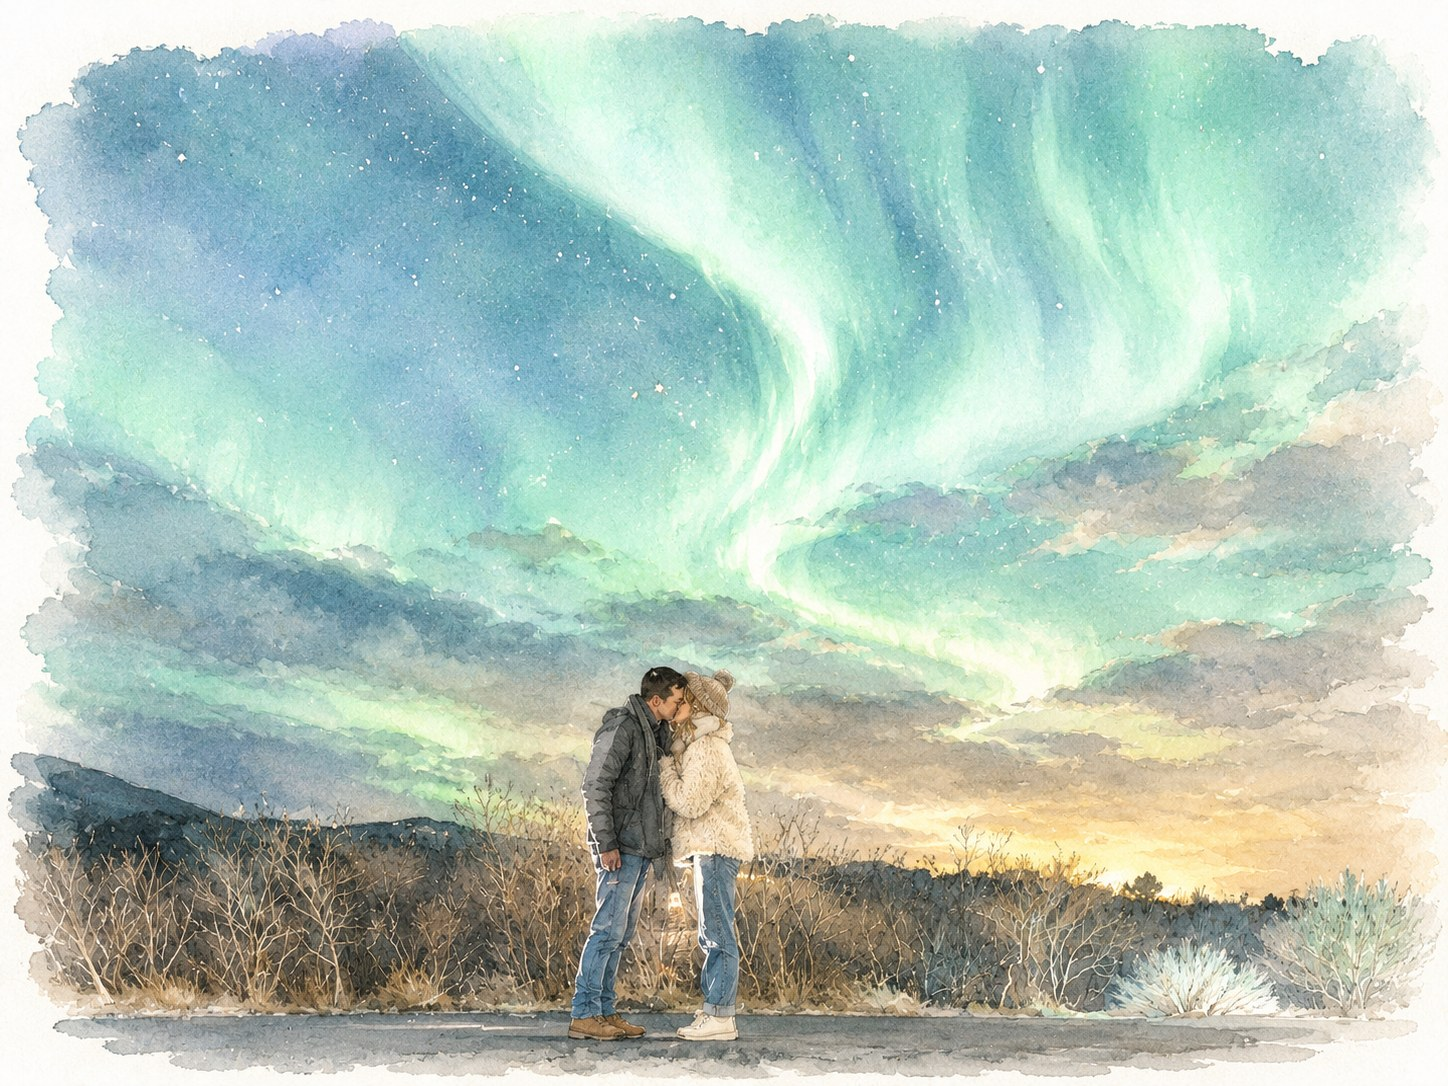
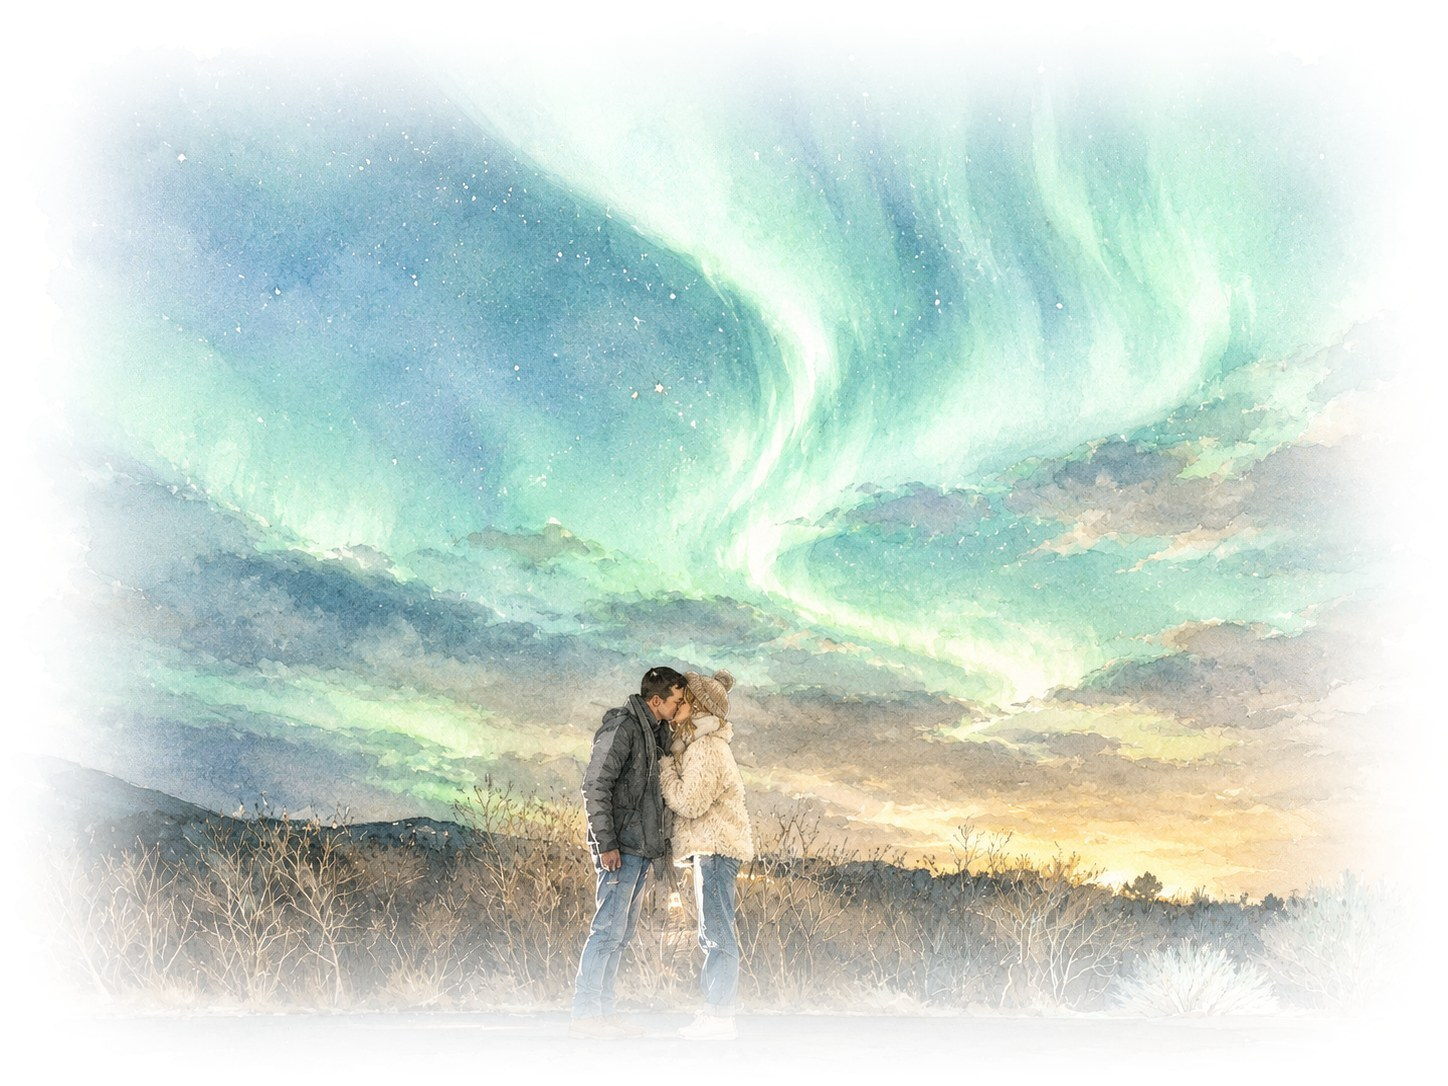
Jenna Sue display face + hero blend fix
- Jenna Sue (woff2) replaces Moelania for hero names, section titles,
  band title, countdown digits, footer names (full charset incl digits/&)
- Hero art: white feather baked into all four edges so the painting
  dissolves into the page with no visible boundary
- Hero parallax anchored to scroll top (data-plx-top): rests at 0 on
  load, recedes at 0.05 like the story painting, no detach jump

diff --git a/index.html b/index.html
@@ -9,19 +9,19 @@
   <meta property="og:description" content="Save the date. Promontory Point, Chicago. Find your invitation and RSVP." />
   <meta property="og:type" content="website" />
 
-  <link rel="icon" type="image/png" href="assets/favicon.png?v=40" />
+  <link rel="icon" type="image/png" href="assets/favicon.png?v=42" />
 
   <link rel="preconnect" href="https://fonts.googleapis.com" />
   <link rel="preconnect" href="https://fonts.gstatic.com" crossorigin />
   <link href="https://fonts.googleapis.com/css2?family=Cormorant+Garamond:ital,wght@0,300;0,400;0,500;0,600;1,300;1,400;1,500&family=Jost:wght@300;400;500&family=Tangerine:wght@400;700&display=swap" rel="stylesheet" />
 
-  <link rel="stylesheet" href="css/site.css?v=40" />
+  <link rel="stylesheet" href="css/site.css?v=42" />
 
   <script>function photoMissing(img){var b=img.closest('[data-photo]');if(b)b.classList.add('photo--missing');}</script>
-  <script defer src="js/config.js?v=40"></script>
+  <script defer src="js/config.js?v=42"></script>
   <script defer src="https://cdn.jsdelivr.net/npm/@supabase/supabase-js@2"></script>
-  <script defer src="js/site.js?v=40"></script>
-  <script defer src="js/rsvp.js?v=40"></script>
+  <script defer src="js/site.js?v=42"></script>
+  <script defer src="js/rsvp.js?v=42"></script>
 </head>
 <body>
 
@@ -59,7 +59,7 @@
         <span class="hero__amp">&amp;</span>
         <span class="hero__name">Ana</span>
       </h1>
-      <div class="hero__rule" data-enter><span class="ornament--set ornament--set-hero" aria-hidden="true"><i></i><img class="ornament__pug" src="assets/photos/pug-icon.png?v=40" alt="" /><i></i></span></div>
+      <div class="hero__rule" data-enter><span class="ornament--set ornament--set-hero" aria-hidden="true"><i></i><img class="ornament__pug" src="assets/photos/pug-icon.png?v=42" alt="" /><i></i></span></div>
       <p class="hero__date" data-enter>Friday, April 23, 2027</p>
       <p class="hero__place" data-enter>Promontory Point &#183; Chicago</p>
       <div class="countdown" id="countdown" data-enter aria-label="Countdown to the wedding">
@@ -75,7 +75,7 @@
     </div>
 
     <figure class="hero__art">
-      <img data-plx="0.07" src="assets/photos/hero-illustration.jpg?v=40" alt="Watercolor of Austin and Ana kissing beneath the northern lights" />
+      <img data-plx="0.05" data-plx-top src="assets/photos/hero-illustration.jpg?v=42" alt="Watercolor of Austin and Ana kissing beneath the northern lights" />
     </figure>
 
 
@@ -152,11 +152,11 @@
       <header class="section__head" data-reveal>
         <p class="section__label">The two of us</p>
         <h2 class="section__title">Our Story</h2>
-        <span class="ornament ornament--set" aria-hidden="true"><i></i><img class="ornament__pug" src="assets/photos/pug-icon.png?v=40" alt="" /><i></i></span>
+        <span class="ornament ornament--set" aria-hidden="true"><i></i><img class="ornament__pug" src="assets/photos/pug-icon.png?v=42" alt="" /><i></i></span>
       </header>
     </div>
     <figure class="story__art">
-      <img data-plx="0.07" src="assets/photos/story-illustration.jpg?v=40" alt="Watercolor illustration of Austin and Ana on the lakeshore" loading="lazy" />
+      <img data-plx="0.07" src="assets/photos/story-illustration.jpg?v=42" alt="Watercolor illustration of Austin and Ana on the lakeshore" loading="lazy" />
     </figure>
   </section>
 
@@ -166,7 +166,7 @@
       <header class="section__head" data-reveal>
         <p class="section__label">April 23, 2027</p>
         <h2 class="section__title">The Day</h2>
-        <span class="ornament ornament--set" aria-hidden="true"><i></i><img class="ornament__pug" src="assets/photos/pug-icon.png?v=40" alt="" /><i></i></span>
+        <span class="ornament ornament--set" aria-hidden="true"><i></i><img class="ornament__pug" src="assets/photos/pug-icon.png?v=42" alt="" /><i></i></span>
       </header>
       <div class="timeline" id="timeline">
         <div class="timeline__rail" aria-hidden="true"><span class="timeline__rail-fill" id="railFill"></span></div>
@@ -211,10 +211,10 @@
       <header class="section__head" data-reveal>
         <p class="section__label">Where</p>
         <h2 class="section__title">Promontory Point</h2>
-        <span class="ornament ornament--set" aria-hidden="true"><i></i><img class="ornament__pug" src="assets/photos/pug-icon.png?v=40" alt="" /><i></i></span>
+        <span class="ornament ornament--set" aria-hidden="true"><i></i><img class="ornament__pug" src="assets/photos/pug-icon.png?v=42" alt="" /><i></i></span>
       </header>
       <figure class="venue__art" data-reveal>
-        <img data-plx="0.05" src="assets/photos/venue-illustration.jpg?v=40" alt="Watercolor illustration of Promontory Point with the Chicago skyline behind it" loading="lazy" />
+        <img data-plx="0.05" src="assets/photos/venue-illustration.jpg?v=42" alt="Watercolor illustration of Promontory Point with the Chicago skyline behind it" loading="lazy" />
       </figure>
       <div class="venue__grid">
         <div class="venue__info" data-reveal>
@@ -244,7 +244,7 @@
       <header class="section__head" data-reveal>
         <p class="section__label">The palette</p>
         <h2 class="section__title">Colors of the Day</h2>
-        <span class="ornament ornament--set" aria-hidden="true"><i></i><img class="ornament__pug" src="assets/photos/pug-icon.png?v=40" alt="" /><i></i></span>
+        <span class="ornament ornament--set" aria-hidden="true"><i></i><img class="ornament__pug" src="assets/photos/pug-icon.png?v=42" alt="" /><i></i></span>
       </header>
       <div class="swatches" data-reveal>
         <div class="swatch"><i style="background:#4E5F82"></i><span>Slate</span></div>
@@ -262,7 +262,7 @@
       <header class="section__head" data-reveal>
         <p class="section__label">A few favorites</p>
         <h2 class="section__title">Gallery</h2>
-        <span class="ornament ornament--set" aria-hidden="true"><i></i><img class="ornament__pug" src="assets/photos/pug-icon.png?v=40" alt="" /><i></i></span>
+        <span class="ornament ornament--set" aria-hidden="true"><i></i><img class="ornament__pug" src="assets/photos/pug-icon.png?v=42" alt="" /><i></i></span>
       </header>
       <div class="gallery__grid">
         <figure class="photo" data-photo data-reveal><img src="assets/photos/gallery-1.jpg" alt="" onerror="photoMissing(this)"/><span class="photo__hint">gallery-1.jpg</span></figure>
@@ -283,7 +283,7 @@
       <header class="section__head" data-reveal>
         <p class="section__label">Good to know</p>
         <h2 class="section__title">Questions</h2>
-        <span class="ornament ornament--set" aria-hidden="true"><i></i><img class="ornament__pug" src="assets/photos/pug-icon.png?v=40" alt="" /><i></i></span>
+        <span class="ornament ornament--set" aria-hidden="true"><i></i><img class="ornament__pug" src="assets/photos/pug-icon.png?v=42" alt="" /><i></i></span>
       </header>
       <div class="faq__list" data-reveal>
         <details class="faq__item"><summary>When should I RSVP?</summary><p>As soon as you can - it truly helps us plan. Search your name below; your whole party appears together.</p></details>
@@ -302,7 +302,7 @@
       <header class="section__head" data-reveal>
         <p class="section__label">We hope you'll join us</p>
         <h2 class="section__title">RSVP</h2>
-        <span class="ornament ornament--set" aria-hidden="true"><i></i><img class="ornament__pug" src="assets/photos/pug-icon.png?v=40" alt="" /><i></i></span>
+        <span class="ornament ornament--set" aria-hidden="true"><i></i><img class="ornament__pug" src="assets/photos/pug-icon.png?v=42" alt="" /><i></i></span>
         <p class="rsvp__lead">Search your name - or your partner's - to find your invitation. Add your email and phone so reminders and updates reach you.</p>
       </header>
       <div class="rsvp__card" data-reveal>
@@ -322,7 +322,7 @@
 
   <!-- ============ FOOTER ============ -->
   <footer class="footer">
-    <span class="ornament ornament--set ornament--footer" aria-hidden="true"><i></i><img class="ornament__pug" src="assets/photos/pug-icon.png?v=40" alt="" /><i></i></span>
+    <span class="ornament ornament--set ornament--footer" aria-hidden="true"><i></i><img class="ornament__pug" src="assets/photos/pug-icon.png?v=42" alt="" /><i></i></span>
     <p class="footer__names">Austin <span>&amp;</span> Ana</p>
     <p class="footer__date">April 23, 2027 · Promontory Point, Chicago</p>
     <p class="footer__thanks">We can't wait to celebrate with you.</p>

diff --git a/css/site.css b/css/site.css
@@ -1106,3 +1106,39 @@ body.nav-open{overflow:hidden}
   height:auto;object-fit:unset;object-position:center;
   -webkit-mask-image:none;mask-image:none;
 }
+
+/* ==========================================================
+   DISPLAY FACE v2: Jenna Sue for headlines and titles
+   (full charset incl. digits and ampersand)
+   ========================================================== */
+@font-face{
+  font-family:'Jenna Sue';
+  src:url("../assets/fonts/JennaSue.woff2?v=41") format("woff2");
+  font-weight:400;font-style:normal;font-display:swap;
+}
+:root{--display:'Jenna Sue','Cormorant Garamond',Georgia,serif}
+/* narrow, thin script reads smaller: scale headlines back up */
+.hero--painted .hero__name{font-size:min(17vw,80px)}
+.hero--painted .hero__amp{
+  font-family:var(--display);font-style:normal;
+  font-size:min(9.5vw,46px);
+}
+.section__title{font-size:min(11vw,50px);line-height:1.05}
+@media (min-width:861px){
+  .hero--painted .hero__name{font-size:min(9vw,120px)}
+  .hero--painted .hero__amp{font-size:min(4.5vw,64px)}
+}
+
+/* parallax paintings composite on their own layer */
+.hero__art img,.story__art img,.venue__art img{will-change:transform}
+
+/* band title joins the display face */
+.band__script{font-family:var(--display);font-size:min(13vw,58px)}
+
+/* countdown digits + footer names join the display face */
+.countdown__unit span{font-family:var(--display);font-size:min(10.5vw,46px)}
+.footer__names{font-family:var(--display);font-size:min(13vw,54px);line-height:1.05}
+@media (min-width:861px){
+  .countdown__unit span{font-size:48px}
+  .footer__names{font-size:min(8vw,68px)}
+}

diff --git a/js/site.js b/js/site.js
@@ -93,9 +93,16 @@
         var host = el.parentNode; // measure the untransformed figure
         var r = host.getBoundingClientRect();
         if (r.bottom < -80 || r.top > vh + 80) return;
-        var mid = r.top + r.height / 2 - vh / 2;
         var speed = parseFloat(el.getAttribute('data-plx')) || 0.08;
-        el.style.transform = 'translate3d(0,' + (-mid * speed).toFixed(1) + 'px,0)';
+        var y;
+        if (el.hasAttribute('data-plx-top')) {
+          /* first-fold art: rest at 0 on load, recede as the page scrolls */
+          y = (window.scrollY || document.documentElement.scrollTop || 0) * speed;
+        } else {
+          var mid = r.top + r.height / 2 - vh / 2;
+          y = -mid * speed;
+        }
+        el.style.transform = 'translate3d(0,' + y.toFixed(1) + 'px,0)';
       });
     }
     function plxQueue() {
